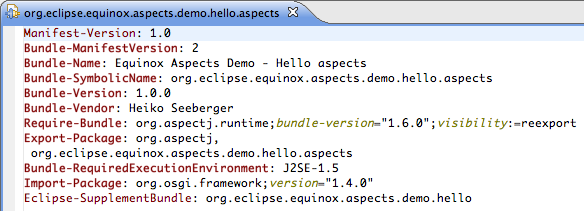
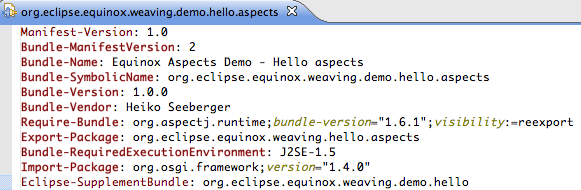
Refactored to the new bundle and package names (org.eclipse.equinox.weaving.*).

Changed region(s): [[0.0, 0.0, 1.0, 1.0]]

diff --git a/incubator/aspects/component-links.html b/incubator/aspects/component-links.html
@@ -1,12 +1,12 @@
 <div id="rightcolumn">
 	<div class="sideitem">
-		<h6>Aspect links</h6>
+		<h6>Aspects links</h6>
 		<ul>
 			<li><a href="index.php">Aspects home</a></li>
-			<li><a href="equinox-aspects-quick-start.php">Quick-start guide</a></li>
 			<li><a href="equinox-aspects-bundles.php">Bundles</a></li>
-			<!--<li><a href="equinox-aspects-user-guide.php">User guide</a></li>-->
 			<li><a href="equinox-aspects-downloads.php">Downloads</a></li>
+			<li><a href="equinox-aspects-quick-start.php">Quick-start guide</a></li>
+			<!--<li><a href="equinox-aspects-user-guide.php">User guide</a></li>-->
 		</ul>
 	</div>
 	<div class="sideitem">

diff --git a/incubator/aspects/equinox-aspects-quick-start.php b/incubator/aspects/equinox-aspects-quick-start.php
@@ -30,15 +30,13 @@ ob_start();
 <p class=bar>Setting up your development environment</p>
 
 <p>
-The following applies to the latest release of Equinox Aspects.
-Currently this is version 1.1.0 which is compatible to Equinox 3.3.2 and 
-AJDT 1.5.2 / AspectJ 1.6.0.
+The following applies to the latest (milestone or development) build of Equinox Aspects which is compatible to Equinox 3.4 and AJDT/AspectJ 1.6.
 </p>
 
 <ol>
-  <li>Install <a href="http://download.eclipse.org/eclipse/downloads/drops/R-3.3.2-200802211800/index.php">Eclipse 3.3.2 SDK</a>.</li>
-  <li>Install <a href="http://www.eclipse.org/downloads/download.php?file=/tools/ajdt/33/update/ajdt_1.5.2_for_eclipse_3.3.zip">AspectJ Development Tools (AJDT) 1.5.2</a>.</li>
-  <li>Download <a href="downloads/org.aspectj.osgi-incubation-1.1.0-archive.zip">Equinox Aspects 1.1.0</a>.</li>
+  <li>Install <a href="http://download.eclipse.org/eclipse/downloads/drops/R-3.4-200806172000/index.php">Eclipse 3.4 SDK</a>.</li>
+  <li>Install the latest version of AJDT form the <a href="	http://download.eclipse.org/tools/ajdt/34/dev/update">AJDT update site</a>.</li>
+  <li>Download the latest build of <a href="downloads/dev/org.eclipse.equinox.weaving-incubation-1.0.0.200807082136-archive.zip">Equinox Aspects</a>.</li>
   <li>Equinox Aspects comes without any tooling, thus there is no need to install it into your development environment (SDK). We strongly recommend to use a custom target platform local to your workspace as described in the next section. But if you prefer to mix your SDK with Equinox Aspects you could extract the downloaded archive into your SDK installation.
   </li>
 </ol>
@@ -50,16 +48,16 @@ These steps are highly recommended. If you installed Equinox Aspects into your S
 </p>
 
 <ol>
-<li>Create a "general" project (a folder), e.g. <i>org.eclipse.equinox.aspects.demo.target</i>.</li>
-<li>Copy all bundles which are required for your application into this target project, e.g. into a <i>plugins</i> directory. For Equinox Aspects the following bundles make up the minimal target:
+<li>Create a "general" project (a folder), e.g. <i>org.eclipse.equinox.weaving.demo.target</i>.</li>
+<li>Copy all bundles which are required for your application into this target project, e.g. into a <i>bundles</i> directory. For Equinox Aspects the following bundles make up the minimal target:
 <ul>
-<li>org.eclipse.osgi</li>
-<li>org.aspectj.osgi (Must be co-located with the system bundle!)</li>
-<li>org.aspectj.osgi.service.weaving</li>
-<li>org.aspectj.runtime</li>
-<li>org.aspectj.weaver</li>
-<li>Optionally: org.aspectj.osgi.service.caching</li>
-<li>Optionally: org.aspectj.osgi.service.caching.j9</li>
+<li><i>org.eclipse.osgi</i> (The system bundle)</li>
+<li><i>org.eclipse.equinox.weaving.hook</i> (Must be co-located with the system bundle!)</li>
+<li><i>org.eclipse.equinox.weaving.aspectj</i></li>
+<li><i>org.aspectj.runtime</i></li>
+<li><i>org.aspectj.weaver</i></li>
+<li>Optionally: <i>org.eclipse.equinox.weaving.caching</i></li>
+<li>Optionally: <i>org.eclipse.equinox.weaving.caching.j9</i></li>
 </ul>
 </li>
 <li>Create a target definition (File>New>...) in the target project root, e.g. <i>default.target</i>.</li>
@@ -72,7 +70,7 @@ These steps are highly recommended. If you installed Equinox Aspects into your S
 If you are planning to support different target platforms, e.g. with different versions of your bundles, you could also apply a version-based naming scheme to the above directory and target definintion.
 </p>
 
-<p>For the Hello world demo the target project looks like this:</p>
+<p>For the "Hello world!" demo the target project looks like this:</p>
 <img src="images/hello-target.png" border="1" />
 
 <p class=bar>Configuring your aspect bundle</p>
@@ -82,10 +80,10 @@ There is nothing special about non-aspect bundles in Equinox Aspects. Your bundl
 </p>
 
 <ol>
-<li>Export all packages containing aspects you want to be woven into other bundles, e.g. <i>org.eclipse.equinox.aspects.demo.hello.aspects</i>.</li>
-<li>Put your <i>aop.xml</i> file into an exported package, if you want to weave other bundles. Best practice: Always use <i>org.aspectj</i> as package name, as this name also has to be provided as a system property for runtime (later).</li>
+<li>Export all packages containing aspects you want to be woven into other bundles, e.g. <i>org.eclipse.equinox.weaving.demo.hello.aspects</i>.</li>
+<li>Put your <i>aop.xml</i> file into the META-INF directory or specify a different location using the special <i>Eclipse-AspectContext</i> manifest header.</li>
 <li>Use <i>Require-Bundle</i> to declare a dependency on <i>org.aspecj.runtime</i> (AJDT will prompt for that when applying the AspectJ nature: Click OK!) and re-export this dependency.</li>
-<li>Use the extended manifest header <i>Eclipse-SupplementBundle</i> to declare the target bundles for weaving, e.g. <i>Eclipse-SupplementBundle: org.eclipse.equinox.aspects.demo.hello</i>.
+<li>Use the special manifest header <i>Eclipse-SupplementBundle</i> to declare the target bundles for weaving, e.g. <i>Eclipse-SupplementBundle: org.eclipse.equinox.weaving.demo.hello</i>.
 </ol>
 
 <p>For the Hello world demo the bundle manifest looks like this:</p>
@@ -93,12 +91,11 @@ There is nothing special about non-aspect bundles in Equinox Aspects. Your bundl
 
 <p class=bar>Configuring your runtime</p>
 <ol>
-<li>Tell Equinox to use <i>org.aspectj.osgi</i> as framework extension using the system property <i>osgi.framework.extensions=org.aspectj.osgi</i>.</li>
-<li>Tell Equinox Aspects where to look for aop.xml files using the system property <i>org.aspectj.weaver.loadtime.configuration=org/aspectj/aop.xml</i>.</li>
-<li>The weaving service (bundle <i>org.aspectj.osgi.service.weaving</i>) has to be started before classes are loaded from any bundles targeted for weaving.</li>
+<li>Tell Equinox to use <i>org.eclipse.equinox.weaving.hook</i> as framework extension using the system property <i>osgi.framework.extensions=org.eclipse.equinox.weaving.hook</i>.</li>
+<li>The AspectJ weaving service (bundle <i>org.eclipse.equinox.weaving.aspectj</i>) has to be started before any classes are loaded from any bundles targeted for weaving.</li>
 </ol>
 
-<p>For the Hello world demo applying all these steps will result in printing "Hi from HelloAspect ;-)" when the bundle <i>org.eclipse.equinox.aspects.demo.hello</i> is started (after the weaving service).</p>
+<p>For the Hello world demo applying all these steps will result in printing "Hi from HelloAspect ;-)" when the bundle <i>org.eclipse.equinox.weaving.demo.hello</i> is started (after the AspectJ weaving service).</p>
 <img src="images/hello-run.png" border="1" />
 
 <p>&nbsp;</p>

diff --git a/incubator/aspects/index.php b/incubator/aspects/index.php
@@ -32,48 +32,6 @@ ob_start();
   We reworked this website and created an up-to-date <a href="equinox-aspects-quick-start.php">
   quick-start guide</a> including a <a href="downloads/equinox-aspects-hello-world_1.1.0.zip">"Hello world!" demo</a>. We are looking forward to getting your feedback ...
 </p>
-<p><b>Mar 10 2008</b> - <img src="http://www.eclipse.org/images/new.gif" width="31" height="14">
-		       We are pleased to announce the availability of version 1.1.0 of Equinox Aspects ...
-		       <!--
-		       Please visit the <a href="getting_started.php">Getting Started</a> page for download and install instructions.<p>
-		       
-		       This version of Equinox Aspects works with AJDT 1.5.1 as well as the development builds of
-		       AJDT 1.5.2 and AJDT 1.6.0. This means also that Equinox Aspects works with Eclipse 3.3 and
-		       the current Eclipse 3.4 milestone builds. Older versions of AJDT are not supported with this
-		       release. Please let us know if you need Equinox Aspects for older AJDT versions.<p>
-		       
-		       This version delivers caching of woven bundles for non-IBM VMs for the first time. This means that you have
-		       a caching bundle for standard Java VMs. This service was contributed by Heiko Seeberger.
-		       Many thanks to Heiko for this great work!<p>
-		       
-		       In addition to the standard caching service this release includes a number of bug fixes and
-		       stability improvements. See the readme.txt for details. As a side effect of the reworked
-		       supplementing mechanism you no longer need to list aspect bundles in the config.ini and you
-		       can even install aspects bundles dynamically at runtime.<p>
-		       
-		       <b>Special thanks</b> go to <b>Heiko Seeberger</b> and <b>Wojciech Durczynski</b> for bug reporting, testing and
-		       last but not least great patch contributions!<p>
-					 -->
-<p><b>Jan 11 2008</b> - We are pleased to announce the availability of version 1.0.4 of Equinox Aspects ...
-           <!--
-		       Please visit the <a href="getting_started.php">Getting Started</a> page for download and install instructions.</p>
-		       
-		       <p>The Aspects project is pleased to announce the availability of Version 1.0.3.
-  This release, which is available from the update site or as a download, includes Phase I,
-  <a href="https://bugs.eclipse.org/bugs/show_bug.cgi?id=161020"> Phase II<a> and
-  <a href="https://bugs.eclipse.org/bugs/show_bug.cgi?id=161023"> Phase III<a> 
-  completing the first stage of the incubator. This code 
-  comprises an OSGi framework extension, tests and demos that allow you to create flexible
-  aspect-oriented applications using Eclipse and AJDT. These can be deployed as bundles, 
-  Eclipse plug-ins or an RCP application using a seemless 
-  <a href="http://www.eclipse.org/aspectj/">AspectJ</a> load-time weaving 
-  environment. The next stage of the project will integrate the AJEER programming model into this 
-  aspect-oriented runtime.</p>
-<p>Of particular interest to Eclipse developers is the latest set of demos available for download. 
-  As well as simple introductions to project there several examples of how 
-to implement and deploy new or modified extension points for existing plug-ins.
-<p>Please read <a href="getting_started.php">Getting Started</a> guide.
--->
   
 <p class=bar>Mission Statement</p>
 <p>Aspect-oriented computing is continuing to increase in popularity. The modularity
@@ -137,7 +95,7 @@ AOP and OSGi - A Marriage Made in Heaven</a>.
 <ul>
   <li>Martin Lippert (it-agile)</li>
   <li>Matthew Webster (IBM)</li>
-  <li>Heiko Seeberger (Weigle Wilczek)</li>
+  <li>Heiko Seeberger (WeigleWilczek)</li>
 </ul>
 
 <p>&nbsp;</p>

diff --git a/incubator/aspects/equinox-aspects-downloads.php b/incubator/aspects/equinox-aspects-downloads.php
@@ -59,40 +59,6 @@ This minimal demo shows how to use Equinox Aspects. It is also used for the <a h
 
 <p class=bar>Archived Builds</p>
 
-<p>
-<a href="downloads/org.aspectj.osgi-incubation-1.1.0-archive.zip">Release 1.1.0</a><br/>
-This version of Equinox Aspects works with AJDT 1.5.1 as well as the development builds of
-AJDT 1.5.2 and AJDT 1.6.0. This means also that Equinox Aspects works with Eclipse 3.3 and
-the current Eclipse 3.4 milestone builds. Older versions of AJDT are not supported with this
-release. Please let us know if you need Equinox Aspects for older AJDT versions.<br/>
-This version delivers caching of woven bundles for non-IBM VMs for the first time. This means that you have
-a caching bundle for standard Java VMs. This service was contributed by Heiko Seeberger.
-Many thanks to Heiko for this great work!<br/>
-In addition to the standard caching service this release includes a number of bug fixes and
-stability improvements. See the readme.txt for details. As a side effect of the reworked
-supplementing mechanism you no longer need to list aspect bundles in the config.ini and you
-can even install aspects bundles dynamically at runtime.<br/>
-<b>Special thanks</b> go to Heiko Seeberger and Wojciech Durczynski for bug reporting, testing and
-last but not least great patch contributions!
-</p>
-
-<p>
-<a href="downloads/org.aspectj.osgi_1.0.4_archive.zip">Release 1.0.4</a>
-</p>
-
-<p>
-<a href="downloads/org.aspectj.osgi_1.0.3a_archive.zip">Release 1.0.3</a><br/>
-This release, which is available from the update site or as a download, includes Phase I, 
-<a href="https://bugs.eclipse.org/bugs/show_bug.cgi?id=161020">Phase II</a> and 
-<a href="https://bugs.eclipse.org/bugs/show_bug.cgi?id=161023">Phase III</a> 
-completing the first stage of the incubator. This code 
-comprises an OSGi framework extension, tests and demos that allow you to create flexible
-aspect-oriented applications using Eclipse and AJDT. These can be deployed as bundles, 
-Eclipse plug-ins or an RCP application using a seemless 
-<a href="http://www.eclipse.org/aspectj/">AspectJ</a> load-time weaving 
-environment.
-</p>
-
 </div>
 
 <?php

diff --git a/incubator/index.php b/incubator/index.php
@@ -128,7 +128,7 @@ The goal of the Equinox Incubator is to experiment with techniques for
         <li>Tom Watson, IBM Lotus (Project co-lead)</li>
         <li>Matthew Webster, IBM Hursley</li>
         <li>Ikuo Yamasaki, NTT Corporation</li>
-        <li>Heiko Seeberger, Weigle Wilczek</li>
+        <li>Heiko Seeberger, WeigleWilczek</li>
       </ul>
 
 		<p class=bar>Old Work Areas</p>
